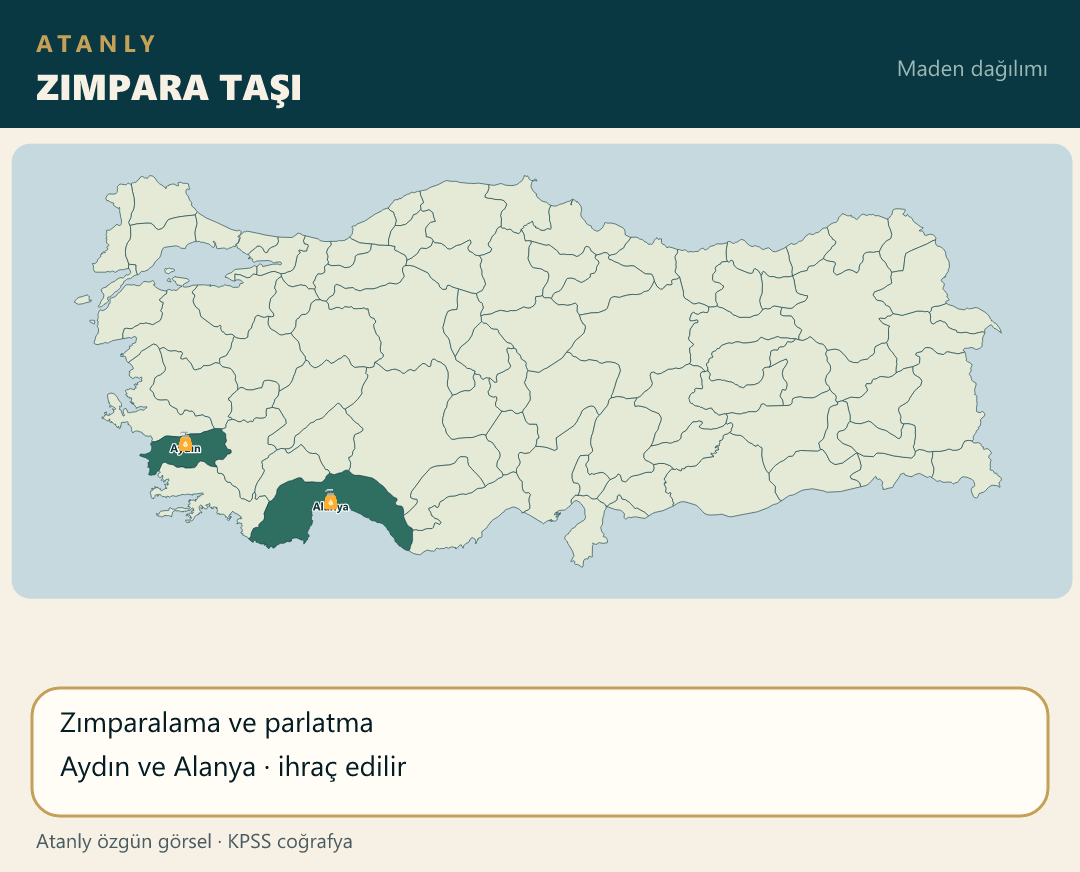
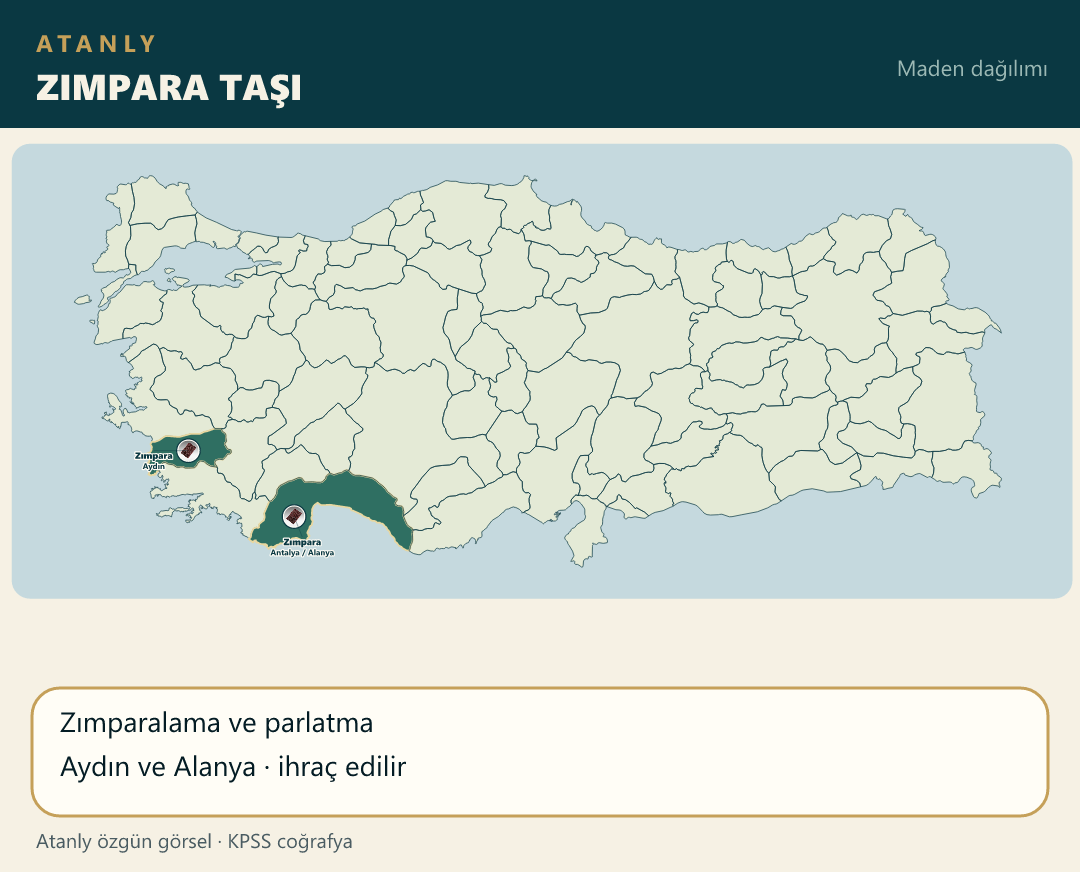
Place the emery photo on Aydin and Antalya land-center pins.

diff --git a/scripts/build-atanly-maps.js b/scripts/build-atanly-maps.js
@@ -1141,8 +1141,11 @@ function main() {
                 { il: "Yozgat", ldx: 32, ldy: 8 }
             ],
             facts: ["Cam, seramik, boya, plastik"] },
-        { file: "maden_zimpara.png", title: "ZIMPARA TAŞI", iller: ["Aydın", "Antalya"],
-            yazilar: ["Aydın", "Alanya"],
+        { file: "maden_zimpara.png", title: "ZIMPARA TAŞI", urun: "Zımpara",
+            noktalar: [
+                { il: "Aydın", ldx: -34, ldy: 8 },
+                { il: "Antalya", ilce: "Alanya", ldx: 8, ldy: 28 }
+            ],
             facts: ["Zımparalama ve parlatma", "Aydın ve Alanya · ihraç edilir"] }
     ];
     if (onlyMore.length) {

diff --git a/notlar/cografya-21-not.js b/notlar/cografya-21-not.js
@@ -2,7 +2,7 @@
 (function () {
     function harita(src, alt) {
         return '<div class="mt-4 overflow-hidden rounded-xl border border-blue-200 dark:border-blue-700/50 bg-white dark:bg-slate-800 p-2">' +
-            '<img src="./src/img/' + src + '?v=38" alt="' + alt + ' Haritası" class="w-full h-auto rounded-lg object-contain" loading="lazy">' +
+            '<img src="./src/img/' + src + '?v=39" alt="' + alt + ' Haritası" class="w-full h-auto rounded-lg object-contain" loading="lazy">' +
             "</div>";
     }
 

diff --git a/index.html b/index.html
@@ -119,7 +119,7 @@
     <script src="notlar/cografya-18-not.js?v=17"></script>
     <script src="notlar/cografya-19-not.js?v=25"></script>
     <script src="notlar/cografya-20-not.js?v=1"></script>
-    <script src="notlar/cografya-21-not.js?v=31"></script>
+    <script src="notlar/cografya-21-not.js?v=32"></script>
     <script src="notlar/cografya-22-not.js?v=1"></script>
     <script src="notlar/cografya-23-not.js?v=1"></script>
     <script src="notlar/cografya-24-not.js?v=1"></script>
